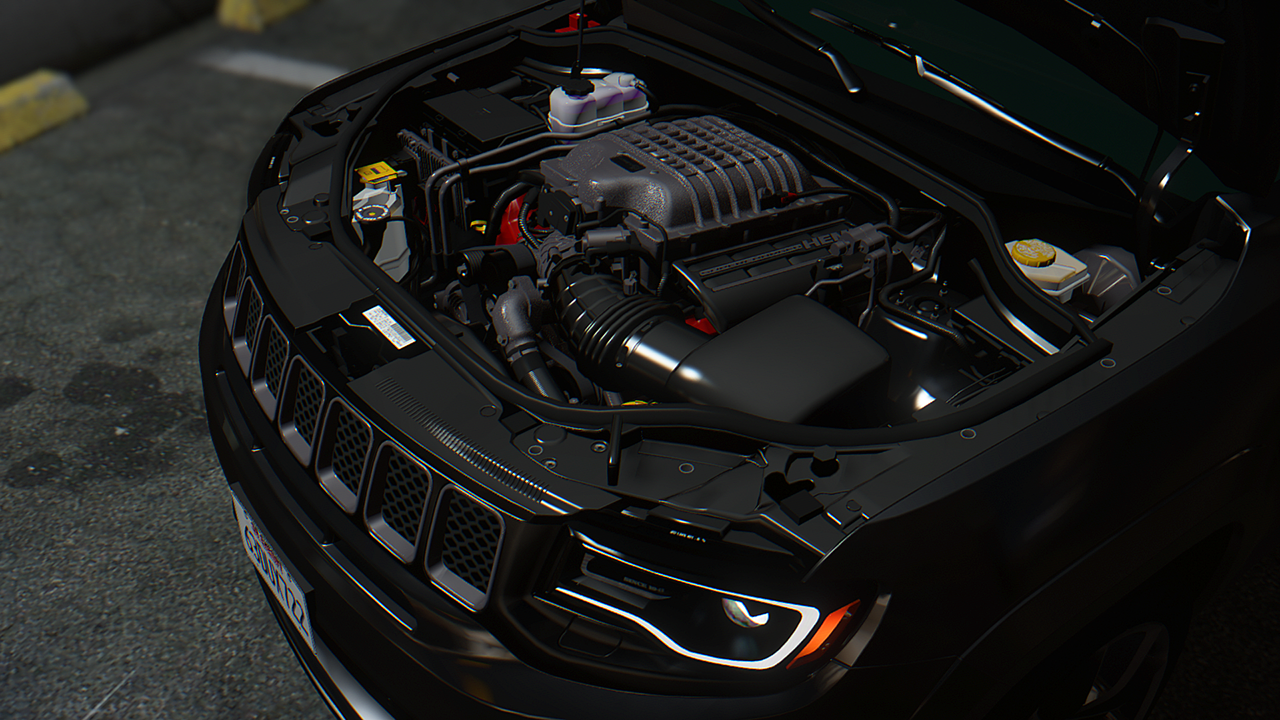
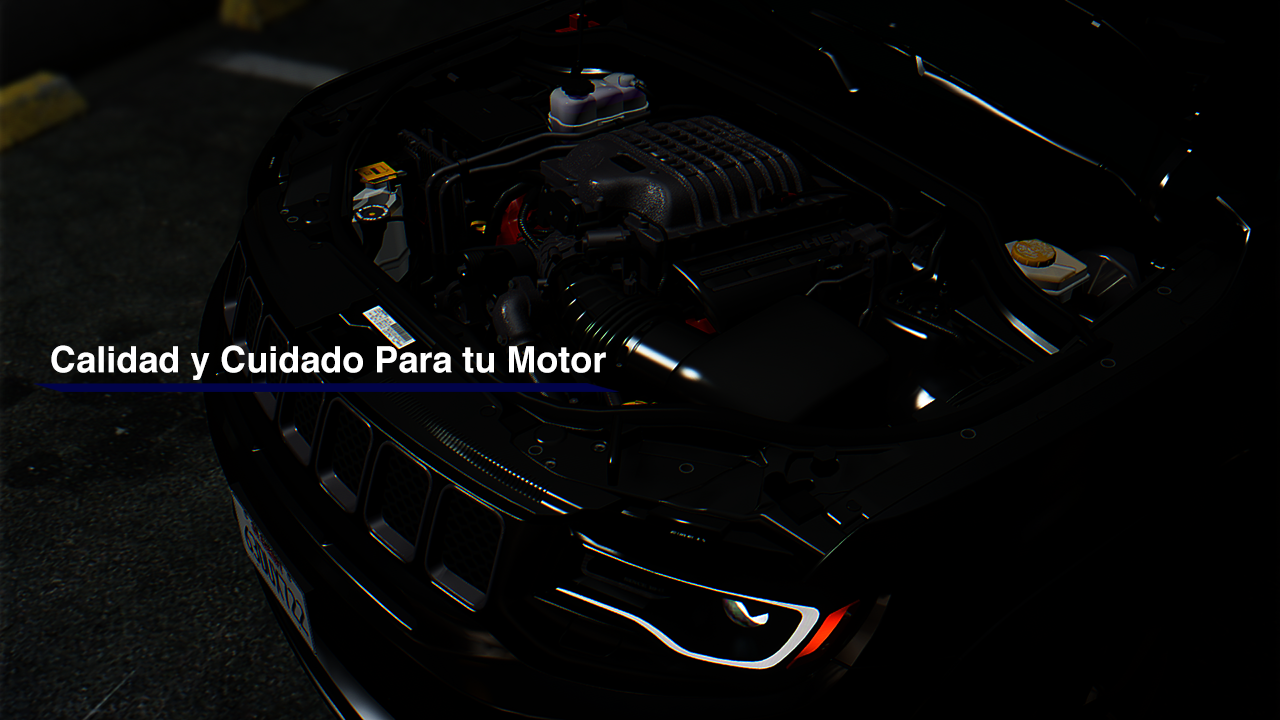
Slider

diff --git a/Css/styles.css b/Css/styles.css
@@ -75,9 +75,11 @@ background-color: rgb(255, 255, 255);
 /*SLIDER*/
 
 .slider{  
-width: 100%;
+width: 98%;
 margin: auto;
 overflow: hidden;
+
+
 
 } 
 .slider ul{  
@@ -85,6 +87,9 @@ display: flex;
 padding: 0;
 width: 400%;
 animation: cambio 20s infinite;
+animation-direction: alternate;
+
+
 }
 
 .slider li{ 
@@ -93,8 +98,11 @@ list-style: none;}
 
 .slider img{ 
  width: 100%;
- height: 30%;
- object-fit: cover;
+ height: 60%;
+object-fit: cover;
+border-radius: 10px;
+
+
 
 }
     
@@ -108,8 +116,11 @@ list-style: none;}
 25% {margin-left:-100%;}
 45% {margin-left:-100%;}
 
+50% {margin-left:-200%;}
+70% {margin-left:-200%;}
 
-
+75% {margin-left:-300%;}
+100% {margin-left:-300%;}
 
 }  
 /*SLIDER*/
@@ -242,6 +253,20 @@ display: block;
 width: 425px;
   
 }
+.slider img{ 
+width: 100%;
+height: 64%;
+object-fit: cover;
+border-radius: 0px;  
+}
+.slider{  
+width: 100%;
+margin: auto;
+overflow: hidden;
+    
+    
+    
+} 
 
 /*Menu Responsive Mobil*/
 }
